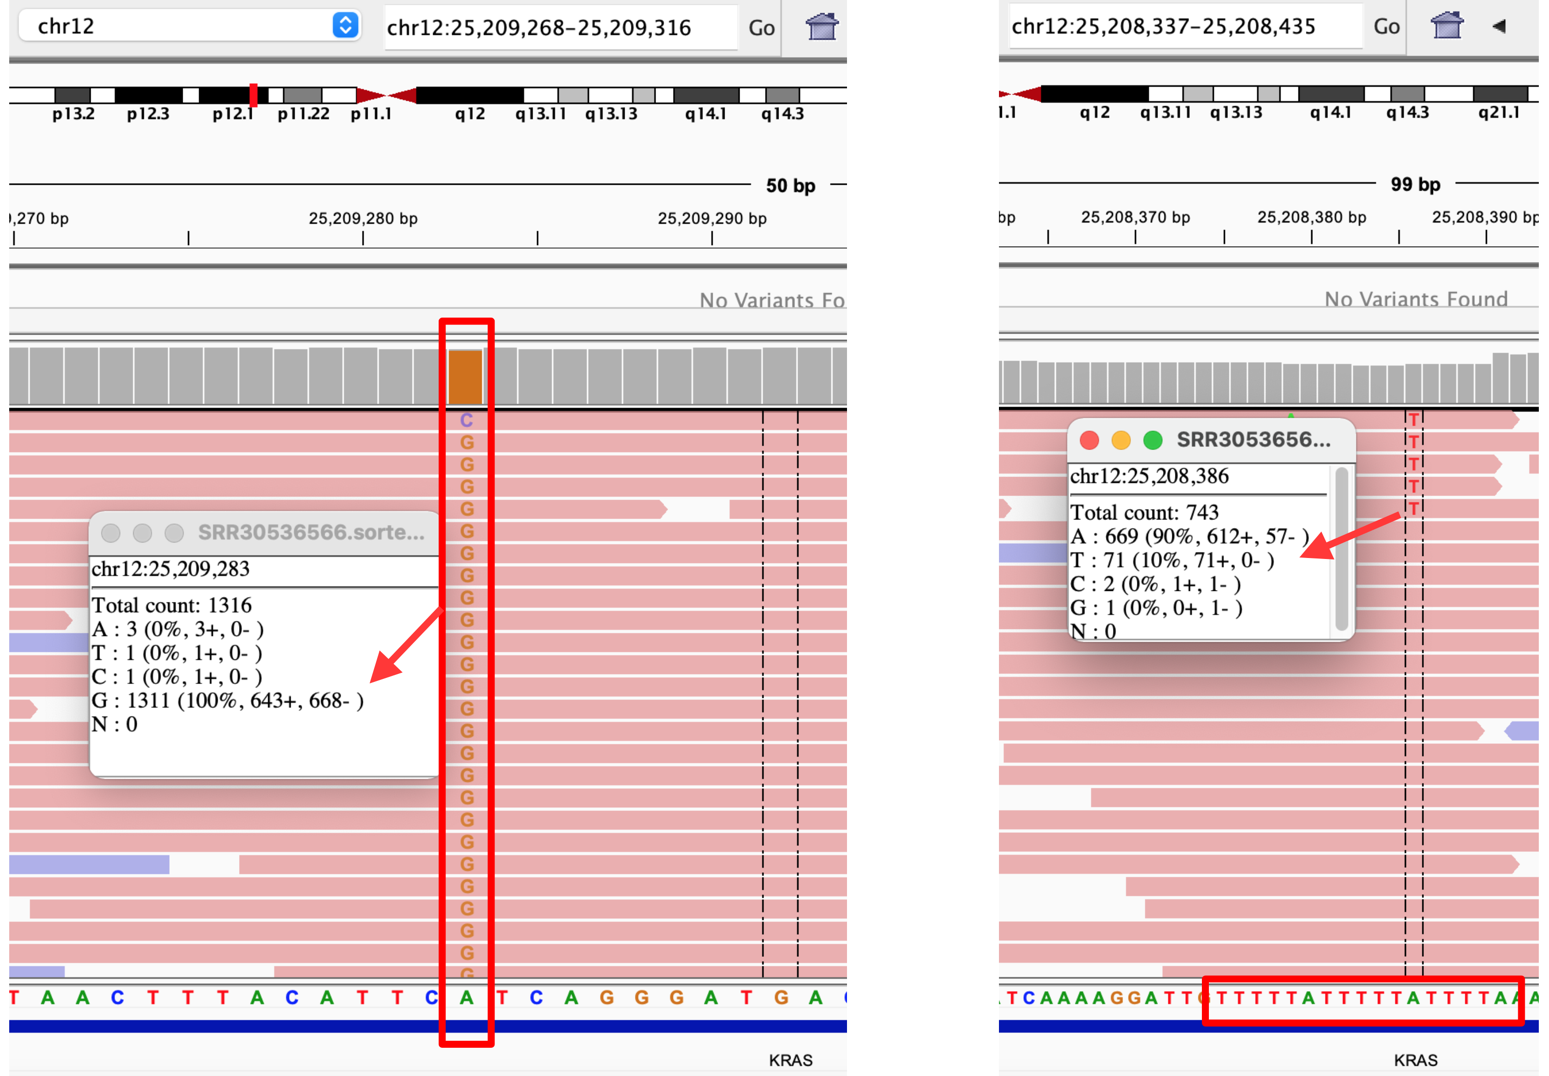
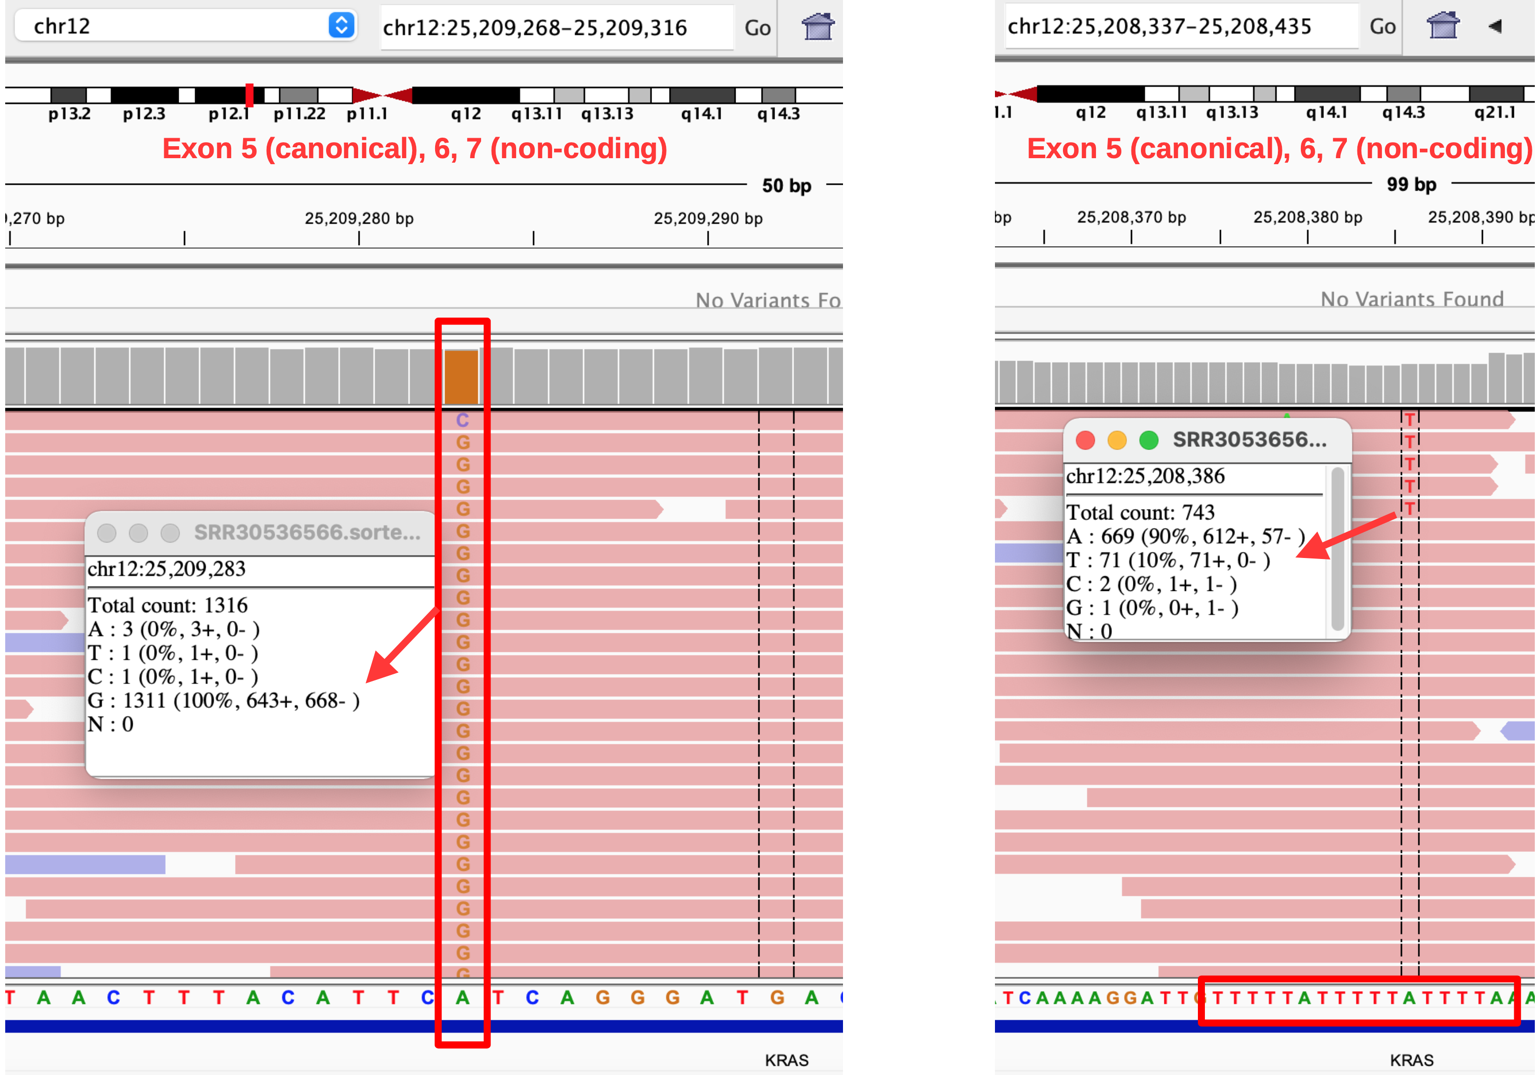
5Feb_followup5

diff --git a/README_igv_Part3-3.md b/README_igv_Part3-3.md
@@ -11,7 +11,7 @@
 - [Assessing the validity of called variants: NRAS](#assessing-the-validity-of-called-variants)
 - [Assessing the validity of called variants: PIK3CA](#2-pik3ca)
 - [Identifying SNV Artifacts in IGV: A Practical Guide](#identifying-snv-artifacts-in-igv-a-practical-guide)
-- [How to read “non-called but visible” variants? Apparent SNVs and artifacts](#how-to-read-non--called-but-visible--variants--apparent-snvs-and-artifacts)
+- [How to read “non-called but visible” variants? Apparent SNVs and artifacts](#how-to-read-non-called-but-visible-variants-apparent-snvs-and-artifacts)
 
 
 
@@ -588,7 +588,7 @@ N : 0
 | **A / T / C / G**    | Number of reads supporting each base                                |
 | **(%, +, -)**        | Variant allele fraction, forward-strand reads, reverse-strand reads |
 
-Therefore:
+Observations:
 
 - G is the major allele: 563 reads (~61%)
 - C is the minor allele: 358 reads (~39%)
@@ -610,7 +610,7 @@ This SNP has:
 - No established disease association
 - Not reportable in a clinical context
 
->**Summary**: A high-confidence intronic SNV was observed in PIK3CA between exons 15 and 16 with ~39% alternate allele fraction; however, this variant lies outside coding and splice regions and is predicted to have no functional impact (MODIFIER). It was therefore not considered clinically relevant and was excluded from downstream reporting.
+>**Interpretation**: A high-confidence intronic SNV was observed in PIK3CA between exons 15 and 16 with ~39% alternate allele fraction; however, this variant lies outside coding and splice regions and is predicted to have no functional impact (MODIFIER). It was therefore not considered clinically relevant and was excluded from downstream reporting.
 
 2. Right side: Is this insertion an artifact?
 
@@ -620,7 +620,7 @@ Insertion (5 bases): ACTTG
 Qualities: 41, 41, 41, 41, 41
 ```
 
->**Summary**: Although the high quality of the inserted bases, the insertion is placed only in the reverse reads without support from fordward reads. Also, in the case of being a true insertion, this should be located in an intronic region between the exon 17 and 18 of PIK3CA. This insertion should be an artefact, showing strand bias and probably irrelevant.
+>**Interpretation**: Although the high quality of the inserted bases, the insertion is placed only in the reverse reads without support from fordward reads. Also, in the case of being a true insertion, this should be located in an intronic region between the exon 17 and 18 of PIK3CA. This insertion should be an artefact, showing strand bias and probably irrelevant.
 
 
 ### **Problem 2 - Figure 8** 
@@ -637,14 +637,14 @@ T : 1
 C : 1
 G : 1311 (100%)
 ```
-Therefore:
+Observations:
 
 - Reference base = A
 - All reads show G
 - No homopolymer context
 - Looks like alt-homozygous (G/G)
 
->**Summary**: This is **almost certainly a germline SNP** because is ~100% alternate allele, extremely high depth, no strand bias, clean signal. Somatic mutations are almost never 100% unless: Tumor purity ~100%, LOH, copy-number events. In a targeted panel without a matched normal, Mutect2 penalizes variants that behave like germline haplotypes when uses population priors (gnomAD, internal models) and suppresses homozygous-alternate sites. Also, the reference condon, which is "TCA" encodes a "S" (serine) and in the alternative the condon changes to "TCG", which encodes also a "S". Conclusion, this is an alt-homozygous (G/G), which is a synonymic mutation. Clinically irrelevant.
+>**Interpretation**: This is **almost certainly a germline SNP** because is ~100% alternate allele, extremely high depth, no strand bias, clean signal. Somatic mutations are almost never 100% unless: Tumor purity ~100%, LOH, copy-number events. In a targeted panel without a matched normal, Mutect2 penalizes variants that behave like germline haplotypes when uses population priors (gnomAD, internal models) and suppresses homozygous-alternate sites. Also, the reference condon, which is "TCA" encodes a "S" (serine) and in the alternative the condon changes to "TCG", which encodes also a "S". Conclusion, this is an alt-homozygous (G/G), which is a synonymic mutation. Clinically irrelevant.
 
 2. Right side: Is this a true clinical SNV in KRAS A/T?
 
@@ -657,16 +657,35 @@ C : 2 (0%, 1+, 1- )
 G : 1 (0%, 0+, 1- )
 N : 0
 ```
-Therefore:
+Observations:
 
 - Reference base: A (~90%)
 - Reads showing T: ~10%
 
->**Summary**: Unfortunately, there are zero reverse reads supporting "T". Strand bias.
+>**Interpretation**: Unfortunately, there are zero reverse reads supporting "T". Strand bias.
 
 
 ### **Problem 3 - Figure 9** 
 
-##![Figure 9](images/IGV_snp_germline_homopolymer_2.png)
+##![Figure 9](images/IGV_strandbias_deletion1.png)
 
-1.
+1. Left side: Which SNV is a clinical one in KRAS: T/A or T/C?
+
+**Coverage Pop-Up information**
+```bash
+Total count: 989
+A : 56 (6%, 2+, 54- )
+T : 4 (0%, 1+, 3- )
+C : 928 (94%, 454+, 474- )
+G : 1 (0%, 1+, 0- )
+N : 0
+DEL: 0
+INS: 2
+```
+Observations:
+
+Strand distribution for A:
+    - 2 forward 
+    - 54 reverse ⟵ 🚨
+
+>**Interpretation**: **classic strand-specific artifact**. 
